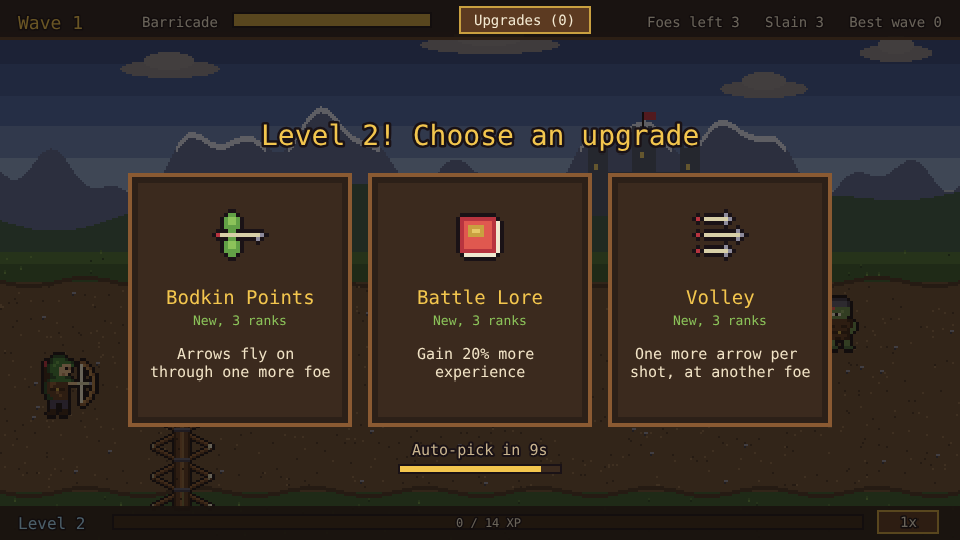
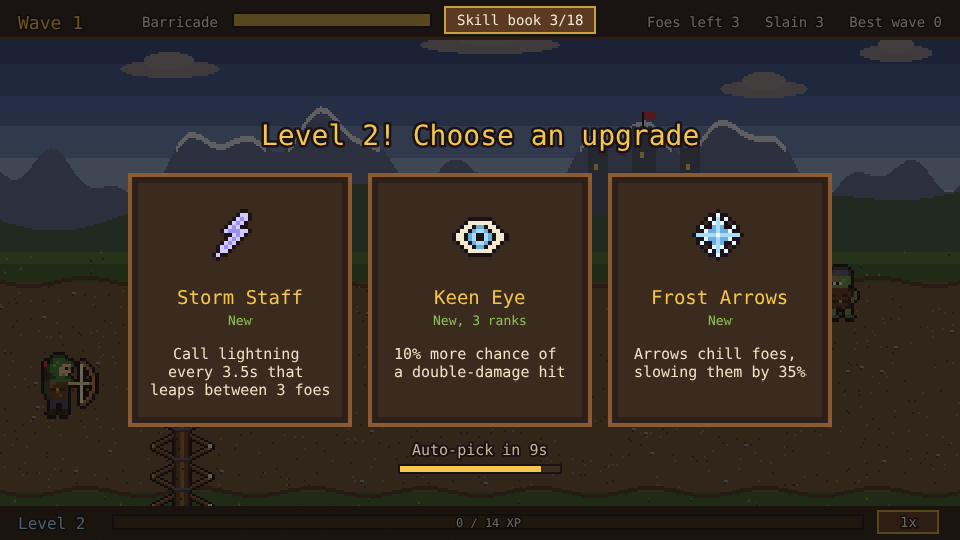
Palisade: the upgrades list becomes a skill book that fills in as skills are found (#78)
The "Upgrades" button is now "Skill book found/total". The book has a slot for every upgrade: each starts as an empty placeholder and fills in the first time a level-up offers that upgrade, showing its icon, what a rank does and the hero's rank (dimmed while it has none). Found skills are kept under their own palisade-skill-book key, so the book stays filled for a new hero.

Requested by Chriszly

Created with Claude Opus 5.5 (low)

diff --git a/games/palisade/src/ui/SkillBook.ts b/games/palisade/src/ui/SkillBook.ts
@@ -1,0 +1,122 @@
+import Phaser from 'phaser';
+import { iconTexture } from '../art/icons';
+import { FONT, SKILL_BOOK, UI_DEPTH, VIEW } from '../scenes/layout';
+import { UPGRADE_IDS, UPGRADES, type UpgradeId } from '../game/upgrades';
+import { makeButton } from './Button';
+
+/**
+ * The skill book: a "Skill book" button in the top bar opens a page with a slot for every upgrade.
+ * A slot is an empty placeholder until that upgrade is first offered on a level-up; then it shows
+ * the upgrade's icon, name, what a rank does and the hero's rank. The battle (and any auto-pick
+ * countdown) waits while it is open.
+ */
+export class SkillBook {
+  /** Whether the book is open; the scene holds the battle still while it is. */
+  open = false;
+  private button: Phaser.GameObjects.Container;
+  private buttonText: Phaser.GameObjects.Text;
+  private buttonBg: Phaser.GameObjects.Rectangle;
+  private root: Phaser.GameObjects.Container;
+  private slots: Phaser.GameObjects.Container;
+  private shown = '';
+
+  constructor(private scene: Phaser.Scene) {
+    const { x, y, w, h } = SKILL_BOOK.button;
+    this.buttonBg = scene.add.rectangle(0, 0, w, h, 0x5c3a21).setStrokeStyle(2, 0xc9a040);
+    this.buttonText = scene.add.text(0, 0, '', { fontFamily: FONT, fontSize: '14px', color: '#f3e9d2' }).setOrigin(0.5);
+    this.buttonBg
+      .setInteractive({ useHandCursor: true })
+      .on('pointerover', () => this.buttonBg.setFillStyle(0x8a5a32))
+      .on('pointerout', () => this.buttonBg.setFillStyle(0x5c3a21))
+      .on('pointerdown', () => this.setOpen(true));
+    // Above the level-up overlay, so the book can be checked while choosing the next upgrade.
+    this.button = scene.add.container(x, y, [this.buttonBg, this.buttonText]).setDepth(UI_DEPTH + 15);
+
+    const p = SKILL_BOOK.panel;
+    const dim = scene.add
+      .rectangle(VIEW.w / 2, VIEW.h / 2, VIEW.w, VIEW.h, 0x0e0a08, 0.7)
+      .setInteractive()
+      .on('pointerdown', () => this.setOpen(false));
+    // The page swallows taps so only taps beside it close it.
+    const panel = scene.add.rectangle(VIEW.w / 2, VIEW.h / 2, p.w, p.h, 0x2c2018).setStrokeStyle(4, 0x8a5a32).setInteractive();
+    const top = VIEW.h / 2 - p.h / 2;
+    const title = scene.add
+      .text(VIEW.w / 2, top + 26, 'Skill book', { fontFamily: FONT, fontSize: '24px', color: '#f3c64e', stroke: '#1a1216', strokeThickness: 4 })
+      .setOrigin(0.5);
+    const note = scene.add
+      .text(VIEW.w / 2, top + 50, 'Each page fills in the first time a level-up offers that skill. The battle waits while the book is open.', {
+        fontFamily: FONT,
+        fontSize: '11px',
+        color: '#c9b48f',
+      })
+      .setOrigin(0.5);
+    this.slots = scene.add.container(0, 0);
+    const close = makeButton(scene, VIEW.w / 2, VIEW.h / 2 + p.h / 2 - 28, 'Back', () => this.setOpen(false));
+    this.root = scene.add.container(0, 0, [dim, panel, title, note, this.slots, close]).setDepth(UI_DEPTH + 30).setVisible(false);
+  }
+
+  /**
+   * Updates the button's count, hides it for `hidden`, and redraws the slots when what has been
+   * found or taken changes.
+   */
+  show(found: ReadonlySet<UpgradeId>, ranks: Partial<Record<UpgradeId, number>>, hidden: boolean) {
+    this.buttonText.setText(`Skill book ${found.size}/${UPGRADE_IDS.length}`);
+    this.button.setVisible(!hidden);
+    if (hidden) this.setOpen(false);
+    const key = UPGRADE_IDS.map((id) => (found.has(id) ? ranks[id] ?? 0 : '-')).join();
+    if (key === this.shown) return;
+    this.shown = key;
+    this.slots.removeAll(true);
+    const { cols, colW, rowH, top } = SKILL_BOOK;
+    const left = VIEW.w / 2 - (cols * colW) / 2;
+    UPGRADE_IDS.forEach((id, i) => {
+      const x = left + (i % cols) * colW;
+      const y = top + Math.floor(i / cols) * rowH;
+      this.addSlot(id, x, y, found.has(id), ranks[id] ?? 0);
+    });
+  }
+
+  private addSlot(id: UpgradeId, x: number, y: number, found: boolean, rank: number) {
+    const { colW, rowH } = SKILL_BOOK;
+    const scene = this.scene;
+    const u = UPGRADES[id];
+    const back = scene.add
+      .rectangle(x + 2, y - 4, colW - 8, rowH - 4, found ? 0x3b2a1e : 0x241a14)
+      .setOrigin(0)
+      .setStrokeStyle(1, found ? 0x8a5a32 : 0x4a3626);
+    const iconBack = scene.add.rectangle(x + 22, y + 18, 34, 34, 0x1a1216).setStrokeStyle(1, 0x4a3626);
+    if (!found) {
+      // An empty placeholder: a blank icon frame and a line where the name will go.
+      this.slots.add([
+        back,
+        iconBack,
+        scene.add.text(x + 22, y + 18, '?', { fontFamily: FONT, fontSize: '18px', color: '#5a4636' }).setOrigin(0.5),
+        scene.add.rectangle(x + 46, y + 8, 110, 6, 0x3b2a1e).setOrigin(0, 0.5),
+        scene.add.rectangle(x + 46, y + 24, 170, 4, 0x2f231b).setOrigin(0, 0.5),
+        scene.add.rectangle(x + 46, y + 32, 130, 4, 0x2f231b).setOrigin(0, 0.5),
+      ]);
+      return;
+    }
+    const taken = rank > 0;
+    const rankText = u.filler ? `${rank}x` : `${rank}/${u.maxRank}`;
+    this.slots.add([
+      back,
+      iconBack,
+      scene.add.image(x + 22, y + 18, iconTexture(u.icon)).setScale(0.6).setAlpha(taken ? 1 : 0.55),
+      scene.add.text(x + 46, y, u.name, { fontFamily: FONT, fontSize: '14px', color: taken ? '#f3c64e' : '#c9b48f' }),
+      scene.add
+        .text(x + colW - 14, y + 1, rankText, {
+          fontFamily: FONT,
+          fontSize: '13px',
+          color: !u.filler && rank === u.maxRank ? '#8cc35a' : taken ? '#f1e3c6' : '#7a6650',
+        })
+        .setOrigin(1, 0),
+      scene.add.text(x + 46, y + 18, u.text, { fontFamily: FONT, fontSize: '11px', color: '#f1e3c6', wordWrap: { width: colW - 60 } }).setAlpha(taken ? 1 : 0.7),
+    ]);
+  }
+
+  private setOpen(open: boolean) {
+    this.open = open;
+    this.root.setVisible(open);
+  }
+}

diff --git a/games/palisade/src/scenes/GameScene.ts b/games/palisade/src/scenes/GameScene.ts
@@ -3,14 +3,14 @@ import Phaser from 'phaser';
 import { foeTexture } from '../art/characters';
 import { BAR, BOSS_BARS, FIRE, STORM } from '../art/palette';
 import { ENEMIES } from '../game/enemies';
-import { clearProgress, loadProgress, loadSpeed, saveProgress, saveSpeed } from '../game/save';
+import { clearProgress, loadFound, loadProgress, loadSpeed, saveFound, saveProgress, saveSpeed } from '../game/save';
 import { fightAgain, offer, pick, tick } from '../game/sim';
 import { freshProgress, newRun, progressOf, stats, xpToNext, type Enemy, type GameState } from '../game/state';
 import type { UpgradeId } from '../game/upgrades';
 import { isBossWave } from '../game/waves';
 import { makeButton } from '../ui/Button';
 import { LevelUp } from '../ui/LevelUp';
-import { UpgradeList } from '../ui/UpgradeList';
+import { SkillBook } from '../ui/SkillBook';
 import { BOSS_BAR, FONT, HERO_FEET, HUD_HEIGHT, UI_DEPTH, VIEW, BARRICADE, SPEED, XP_BAR } from './layout';
 
 /** Longest simulated step, so a backgrounded tab doesn't jump the battle forward. */
@@ -32,8 +32,10 @@ export class GameScene extends Phaser.Scene {
   state!: GameState;
   /** The level-up cards; the playthrough test reads where they are to tap one. */
   levelUp!: LevelUp;
-  /** The upgrades taken so far, behind a button in the top bar. */
-  upgradeList!: UpgradeList;
+  /** The skill book, behind a button in the top bar. */
+  skillBook!: SkillBook;
+  /** Every upgrade a level-up has offered at least once: the skill book's filled pages. */
+  found = new Set<UpgradeId>();
   private foes = new Map<number, Phaser.GameObjects.Image>();
   private missiles = new Map<number, Phaser.GameObjects.Image>();
   private crits = new Map<number, Phaser.GameObjects.Text>();
@@ -78,7 +80,8 @@ export class GameScene extends Phaser.Scene {
     this.createHud();
     this.createGameOver();
     this.levelUp = new LevelUp(this, (id) => this.pick(id));
-    this.upgradeList = new UpgradeList(this);
+    this.found = new Set(loadFound());
+    this.skillBook = new SkillBook(this);
     this.createSpeedSwitch();
   }
 
@@ -92,7 +95,7 @@ export class GameScene extends Phaser.Scene {
     const wave = s.wave;
     const levelUps = s.levelUps;
     // Everything, the auto-pick countdown included, waits while the list of upgrades is open.
-    if (!this.upgradeList.open) {
+    if (!this.skillBook.open) {
       // The battle plays at the chosen speed; the auto-pick countdown stays in real seconds.
       const game = s.choices ? dt : dt * this.speed;
       tick(s, game);
@@ -106,7 +109,8 @@ export class GameScene extends Phaser.Scene {
     this.drawHero();
     this.drawHud();
     this.levelUp.show(s.phase === 'over' ? null : s.choices, s.ranks, s.level - s.levelUps + 1, s.levelUps, s.pickMs);
-    this.upgradeList.show(s.ranks, s.phase === 'over');
+    this.discover();
+    this.skillBook.show(this.found, s.ranks, s.phase === 'over');
     this.gameOver.setVisible(s.phase === 'over');
     if (s.phase === 'over') {
       this.gameOverText.setText(
@@ -114,6 +118,16 @@ export class GameScene extends Phaser.Scene {
           `The hero keeps level ${s.level} and every upgrade picked.`,
       );
     }
+  }
+
+  /** Fills the skill book's page for each upgrade offered (or held) for the first time. */
+  private discover() {
+    const s = this.state;
+    const seen = [...(s.choices ?? []), ...(Object.keys(s.ranks) as UpgradeId[])];
+    const fresh = seen.filter((id) => !this.found.has(id));
+    if (fresh.length === 0) return;
+    for (const id of fresh) this.found.add(id);
+    saveFound([...this.found]);
   }
 
   private pick(id: UpgradeId) {

diff --git a/games/palisade/src/game/save.ts b/games/palisade/src/game/save.ts
@@ -1,4 +1,5 @@
 import { freshProgress, type Progress } from './state';
+import { UPGRADES, type UpgradeId } from './upgrades';
 
 // Only the hero's progress is saved: level, experience and upgrades. A run always starts at wave 1.
 const KEY = 'palisade-progress';
@@ -47,5 +48,26 @@ export function saveSpeed(speed: number) {
     localStorage.setItem(SPEED_KEY, String(speed));
   } catch {
     // Storage can be blocked; the speed then only lasts until a reload.
+  }
+}
+
+// The skill book: every upgrade a level-up has offered at least once. Like the speed, it is kept
+// apart from the hero, so "New hero" starts a new hero with the book still filled in.
+const FOUND_KEY = 'palisade-skill-book';
+
+export function loadFound(): UpgradeId[] {
+  try {
+    const saved = JSON.parse(localStorage.getItem(FOUND_KEY) ?? '[]') as unknown;
+    return Array.isArray(saved) ? saved.filter((id): id is UpgradeId => id in UPGRADES) : [];
+  } catch {
+    return [];
+  }
+}
+
+export function saveFound(found: UpgradeId[]) {
+  try {
+    localStorage.setItem(FOUND_KEY, JSON.stringify(found));
+  } catch {
+    // Storage can be blocked; the book then only lasts until a reload.
   }
 }

diff --git a/games/palisade/src/scenes/layout.ts b/games/palisade/src/scenes/layout.ts
@@ -15,15 +15,15 @@ export const BOSS_BAR = { x: 480, y: 66, w: 420, h: 14 };
 export const CARDS = { xs: [240, 480, 720], y: 300, w: 220, h: 250 };
 /** The auto-pick countdown under the cards: its text's centre, and the width and height of its bar. */
 export const COUNTDOWN = { x: 480, y: 450, w: 160, h: 6 };
-/** The "Upgrades" button in the top bar, and the panel it opens: its size and the grid of upgrades. */
-export const UPGRADE_LIST = {
-  button: { x: 525, y: 20, w: 130, h: 26 },
-  panel: { w: 840, h: 460 },
+/** The "Skill book" button in the top bar, and the book it opens: its size and the grid of slots. */
+export const SKILL_BOOK = {
+  button: { x: 520, y: 20, w: 150, h: 26 },
+  panel: { w: 900, h: 500 },
   cols: 3,
-  colW: 270,
-  rowH: 50,
+  colW: 290,
+  rowH: 62,
   /** The top of the first row. */
-  top: 120,
+  top: 92,
 };
 export const BUTTON = { w: 180, h: 40 };
 

diff --git a/games/palisade/AGENTS.md b/games/palisade/AGENTS.md
@@ -17,8 +17,8 @@ pauses the battle on a pick of three upgrades, taking one at random after 10 sec
   carry over between runs. Every run restarts at wave 1. A boss (the troll) closes every tenth
   wave with stacked health bars.
 - **Screens:** there is one scene with the battle and HUD, plus three overlays drawn over it: the
-  level-up cards (`LevelUp`), the list of upgrades taken (`UpgradeList`, opened by the "Upgrades"
-  button in the top bar) and the game-over panel with "Fight again" and "New hero". There is no
+  level-up cards (`LevelUp`), the skill book (`SkillBook`, opened by the "Skill book" button in the
+  top bar) and the game-over panel with "Fight again" and "New hero". There is no
   title or menu screen.
 - **Rough edges seen in the code:**
   - `rollChoices` adds at most one `mend` filler, so with fewer than two upgrades left the level-up
@@ -49,17 +49,20 @@ pauses the battle on a pick of three upgrades, taking one at random after 10 sec
   - `upgrades.ts`: the `UPGRADES` table, `UpgradeId`, `Icon` and `UPGRADE_IDS`.
   - `waves.ts`: `waveFoes`, `foeHp` (scaled by difficulty), `hpScale`, `bossBars`,
     `spawnInterval`, break lengths.
-  - `save.ts`: `loadProgress`, `saveProgress`, `clearProgress`, `loadSpeed`, `saveSpeed`.
+  - `save.ts`: `loadProgress`, `saveProgress`, `clearProgress`, `loadSpeed`, `saveSpeed`,
+    `loadFound`, `saveFound`.
 - `src/scenes/BootScene.ts`: bakes every texture, then starts `Game`.
 - `src/scenes/GameScene.ts`: owns the `GameState`, ticks it each frame, draws it, saves progress,
   handles restart and draws the 1x/2x speed switch (`speed`, at `SPEED` in the bottom bar).
 - `src/scenes/layout.ts`: screen positions (`HERO_FEET`, `BARRICADE`, `XP_BAR`, `BOSS_BAR`,
-  `CARDS`, `COUNTDOWN`, `UPGRADE_LIST`, `SPEED`, `BUTTON`), `HUD_HEIGHT`, `UI_DEPTH`, `FONT`.
+  `CARDS`, `COUNTDOWN`, `SKILL_BOOK`, `SPEED`, `BUTTON`), `HUD_HEIGHT`, `UI_DEPTH`, `FONT`.
 - `src/ui/LevelUp.ts`: the level-up overlay, its cards and the auto-pick countdown (seconds left
   over an emptying bar, at `COUNTDOWN`). It records each card's spot in `cards`.
-- `src/ui/UpgradeList.ts`: the "Upgrades (N)" button in the top bar and the panel it opens, a grid
-  of every upgrade with a rank (icon, name, rank of max, `text`) in `UPGRADE_IDS` order. Its
-  `open` flag tells the scene to hold everything still.
+- `src/ui/SkillBook.ts`: the "Skill book found/total" button in the top bar and the book it opens,
+  a 3x6 grid with a slot for every id in `UPGRADE_IDS` order. A slot not yet in `found` is an empty
+  placeholder (a "?" frame and blank lines); a found one shows icon, name, rank of max (`Nx` for
+  the `mend` filler) and `text`, dimmed at rank 0. Its `open` flag tells the scene to hold
+  everything still.
 - `src/ui/Button.ts`: `makeButton`, the wooden button used on the game-over panel.
 - `src/art/`: pixel art drawn in code. `pixelArt.ts` has `bakePixelArt`, `PixelCanvas` and the
   seeded generator `seeded`. `characters.ts` has the hero, foes (two walk frames, `foeTexture`)
@@ -89,16 +92,18 @@ pauses the battle on a pick of three upgrades, taking one at random after 10 sec
   towards their target every substep.
 - **Input:** the only input is a tap. A tap on a level-up card calls `GameScene.pick`, which calls
   `pick` in `sim.ts`. Without a tap, `tick` picks after `AUTO_PICK_MS` (10 s). "Fight again" and
-  "New hero" call `restart`. The "Upgrades" button opens `UpgradeList`; Back or a tap beside the
-  panel closes it. While it is open `GameScene.update` skips `tick` and its `clock`, so the battle,
+  "New hero" call `restart`. The "Skill book" button opens `SkillBook`; Back or a tap beside the
+  book closes it. While it is open `GameScene.update` skips `tick` and its `clock`, so the battle,
   effects and the auto-pick countdown all wait. The button sits above the level-up overlay (depth
   `UI_DEPTH + 15`) so it works while choosing, and hides after a fall. Shooting is automatic. A dimming rectangle under each overlay is
   interactive, so taps on the battle are swallowed.
+- **Skill book:** after each `tick`, `GameScene.discover` adds every id in `choices` and `ranks`
+  to `found` (so an old save's upgrades count as found) and saves it when it grew.
 - **Rendering:** sprites are diffed by id. `foes` and `missiles` are `Map`s of images, and crit
   texts are `crits`. Each is created, updated or destroyed to match the state every frame.
   Health bars, flames, blasts, bolts and the HUD are `Graphics` that are cleared and redrawn every
-  frame. `LevelUp.show` only rebuilds its cards when the choices change, and `UpgradeList.show`
-  only rebuilds its rows when the ranks change.
+  frame. `LevelUp.show` only rebuilds its cards when the choices change, and `SkillBook.show`
+  only rebuilds its slots when what is found or taken changes.
 
 ### State model
 
@@ -122,11 +127,13 @@ pauses the battle on a pick of three upgrades, taking one at random after 10 sec
 
 ### Persistence
 
-Two `localStorage` keys. `palisade-speed` holds the battle speed (`'1'` or `'2'`, through
-`loadSpeed`/`saveSpeed`), kept apart so "New hero" leaves it alone. `palisade-progress` holds JSON
-of `Progress`. `loadProgress` merges it
-over `freshProgress()` and falls back to fresh on any error. "New hero" calls `clearProgress`.
-The run itself (wave, foes, barricade) is never saved, so a reload starts at wave 1.
+Three `localStorage` keys. `palisade-skill-book` holds a JSON array of the upgrade ids found
+(offered on a level-up, or held), read by `loadFound` (unknown ids dropped) and written by
+`GameScene.discover` whenever one is new; "New hero" leaves it alone. `palisade-speed` holds the
+battle speed (`'1'` or `'2'`, through `loadSpeed`/`saveSpeed`), kept apart so "New hero" leaves it
+alone. `palisade-progress` holds JSON of `Progress`. `loadProgress` merges it over `freshProgress()`
+and falls back to fresh on any error. "New hero" calls `clearProgress`. The run itself (wave, foes,
+barricade) is never saved, so a reload starts at wave 1.
 
 ### Randomness and timing
 
@@ -174,8 +181,8 @@ Missile speeds, `LEAP_RANGE`, `BARRICADE_REPAIR` and effect durations (`EFFECT_M
   w, h). It never writes to the game.
 - **Inputs:** the test only advances the clock and clicks the centre of a card, scaled from the
   960-wide view to the canvas box. It never opens the upgrade list (not part of the first
-  round's loop); `.upgradeList.open` is there to read if a test ever does. Nor does it touch
-  the speed switch: with no `palisade-speed` saved the game plays at 1x. Keep the "Upgrades"
+  round's loop); `.skillBook.open` and `.found` are there to read if a test ever does. Nor does it touch
+  the speed switch: with no `palisade-speed` saved the game plays at 1x. Keep the "Skill book"
   button clear of the cards, since it sits above the level-up overlay.
 - **What it checks:**
   - A fresh hero: level 1, no ranks, wave 1, phase `'break'`, a full barricade.

diff --git a/games/palisade/README.md b/games/palisade/README.md
@@ -16,7 +16,7 @@ the experience bar, and every level-up pauses the battle on three upgrades to pi
 | --- | --- |
 | Tap or click a card | Take that upgrade when a level-up comes up (after 10 seconds one is taken at random) |
 | 1x / 2x (bottom right) | Switch the battle between normal and double speed; the level-up countdown stays 10 real seconds |
-| Upgrades (in the top bar) | List the upgrades taken so far, with their ranks; the battle waits until Back |
+| Skill book (in the top bar) | Open the skill book; the battle waits until Back |
 | Fight again / New hero | After a fall: start again from wave 1 keeping the hero, or with a new one |
 
 1. **Waves**: each wave brings more foes than the last, with more health. A short break with the
@@ -69,11 +69,14 @@ picked. Once fewer than three upgrades are left, "Mend the Barricade" fills the 
 
 ![Fire arrows, a fireball and burning foes](docs/screenshots/upgrades.png)
 
-The "Upgrades" button in the top bar shows how many upgrades the hero has and opens a list of
-them, each with its rank and what a rank does. It works during a level-up too, to check what the
-hero has before choosing.
+The skill book (its button in the top bar shows how many skills are found, such as "Skill book
+8/18") has a page for every upgrade. The pages start as empty placeholders, and each fills in the
+first time a level-up offers that upgrade, with its icon, what a rank does and the hero's rank
+(dimmed while it has none). The book stays filled for a new hero. It opens during a level-up too,
+to check what the hero has before choosing.
 
-![The list of upgrades taken](docs/screenshots/upgrade-list.png)
+![The empty skill book of a new hero](docs/screenshots/skill-book-empty.png)
+![A skill book part filled in](docs/screenshots/skill-book.png)
 
 The switch at the right end of the experience bar plays the battle at double speed. It lights up
 gold at 2x and is remembered in the browser, separately from the hero.
@@ -115,7 +118,7 @@ All paths are inside `games/palisade/`.
   rules, `layout.ts` says where things are drawn.
 - `src/art/`: all the pixel art, drawn in code and baked into textures at startup: the ranger and
   the foes, the battlefield, the barricade (which breaks up in stages), missiles and upgrade icons.
-- `src/ui/`: the level-up cards, the list of upgrades taken and buttons.
+- `src/ui/`: the level-up cards, the skill book and buttons.
 
 Adding an upgrade is an entry in `src/game/upgrades.ts` and its effect in `stats` in
 `src/game/state.ts` (and, for a new kind of missile, `shoot` in `src/game/sim.ts`).
